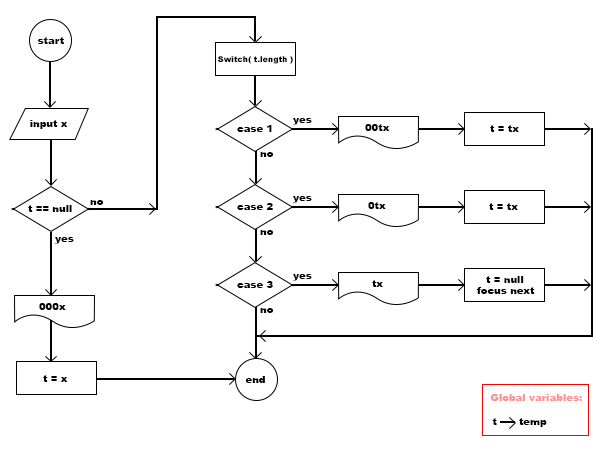
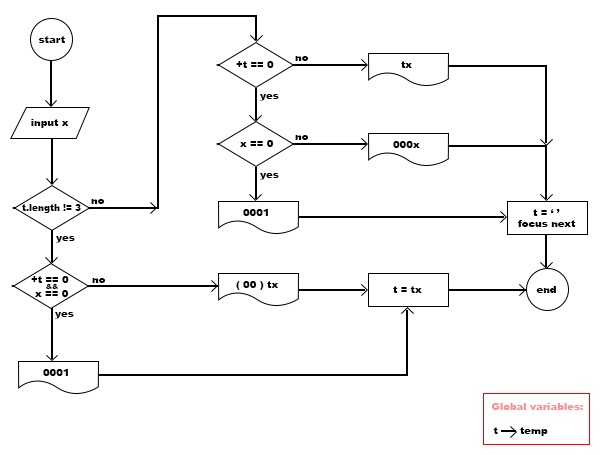
year algorithm changed

diff --git a/src/src/lib/fast-date-typing.ts b/src/src/lib/fast-date-typing.ts
@@ -5,17 +5,23 @@ import { ChangeDetectionStrategy, Component, ElementRef, EventEmitter, Input, Ng
   template: `
     <div class="datetime-edit" datetimeformat="M/d/yyyy">
       <div class="datetime-edit-fields-wrapper" (mousemove)="moveMouse()" (click)="moveMouse()">
-        <span contenteditable="true" #yearInput role="spinbutton" aria-placeholder="yyyy" aria-valuemin="1000" aria-valuemax="9999" aria-label="Year" tabindex="0" (focus)="temp = null; datetimeFocused = true;" (blur)="datetimeFocused = false;yearBlur()" (keydown)="yearSet($event)">
-          {{yearValue}}
-        </span>
-        <div>{{separator}}</div>
-        <span contenteditable="true" #monthInput role="spinbutton" aria-placeholder="mm" aria-valuemin="1" aria-valuemax="12" aria-label="Month" tabindex="0" (focus)="temp = null; datetimeFocused = true;" (blur)="datetimeFocused = false;valueChange.emit(yearValue + '-' + monthValue + '-' + dayValue)" (keydown)="monthSet($event)">
-          {{monthValue}}
-        </span>
-        <div>{{separator}}</div>
-        <span contenteditable="true" #dayInput role="spinbutton" aria-placeholder="dd" aria-valuemin="1" aria-valuemax="31" aria-label="Day" tabindex="0" (focus)="temp = null; datetimeFocused = true;" (blur)="datetimeFocused = false;valueChange.emit(yearValue + '-' + monthValue + '-' + dayValue)" (keydown)="daySet($event)">
-          {{dayValue}}
-        </span>
+        <div>
+          <span #yearInput role="spinbutton" contentEditable="true" aria-placeholder="yyyy" aria-valuemin="1000" aria-valuemax="9999" aria-label="Year" tabindex="0" (focus)="spanFocus()" (blur)="setValue()" (keydown)="yearSet($event)">
+            {{yearValue}}
+          </span>
+        </div>
+        <div class="separator">{{separator}}</div>
+        <div>
+          <span #monthInput role="spinbutton" contentEditable="true" aria-placeholder="mm" aria-valuemin="1" aria-valuemax="12" aria-label="Month" tabindex="0" (focus)="spanFocus()" (blur)="setValue()" (keydown)="monthSet($event)">
+            {{monthValue}}
+          </span>
+        </div>
+        <div class="separator">{{separator}}</div>
+        <div>
+          <span #dayInput role="spinbutton" contentEditable="true" aria-placeholder="dd" aria-valuemin="1" aria-valuemax="31" aria-label="Day" tabindex="0" (focus)="spanFocus()" (blur)="setValue()" (keydown)="daySet($event)">
+            {{dayValue}}
+          </span>
+        </div>
       </div>
     </div>
 `,
@@ -29,45 +35,40 @@ import { ChangeDetectionStrategy, Component, ElementRef, EventEmitter, Input, Ng
 })
 export class DateInput implements OnChanges {
 
-  datetimeFocused = false;
-  yearBlur() {
-    (+this.yearValue == 0) ? this.yearValue = '0001' : ''
-    this.valueChange.emit(this.yearValue + '-' + this.monthValue + '-' + this.dayValue);
-  }
+  @ViewChild('yearInput') yearInputViewChild!: ElementRef<HTMLElement>;
+  @ViewChild('monthInput') monthInputViewChild!: ElementRef<HTMLElement>;
+  @ViewChild('dayInput') dayInputViewChild!: ElementRef<HTMLElement>;
 
   @Input() separator = '/';
-
-  @ViewChild('yearInput') yearInputViewChild: ElementRef<HTMLElement>;
-  @ViewChild('monthInput') monthInputViewChild: ElementRef<HTMLElement>;
-  @ViewChild('dayInput') dayInputViewChild: ElementRef<HTMLElement>;
-
-  @Output() valueChange: EventEmitter<string> = new EventEmitter();
   @Input() value = 'yyyy-mm-dd';
+  @Output() valueChange: EventEmitter<string> = new EventEmitter();
 
   yearValue = 'yyyy';
   monthValue = 'mm';
   dayValue = 'dd';
+  datetimeFocused = false;
+  temp = '';
+
 
   ngOnChanges(changes: SimpleChanges): void {
-    this.yearValue = this.value.split('-')[0];
-    this.monthValue = this.value.split('-')[1];
-    this.dayValue = this.value.split('-')[2];
+    let val = this.value.split('-');
+    this.yearValue = val[0];
+    this.monthValue = val[1];
+    this.dayValue = val[2];
   }
 
-  // this.year = new YearControl({ value: '', disabled: false }, [Validators.pattern(/^(13|14)\d\d$/)]);
-  // this.month = new MonthControl({ value: '', disabled: false }, [Validators.pattern(/^(0[1-9]|1[0-2])$/)]);
-  // this.day = new DayControl({ value: '', disabled: false }, [Validators.pattern(/^(0[1-9]|1[0-2])$/)]);
+  setValue() {
+    this.datetimeFocused = false;
+    this.valueChange.emit(this.yearValue + '-' + this.monthValue + '-' + this.dayValue)
+  }
 
-  // selectAll(element: HTMLElement) {
-  //   let selection = window.getSelection();
-  //   let range = document.createRange();
-  //   range.selectNodeContents(element);
-  //   selection.removeAllRanges();
-  //   selection.addRange(range);
-  // }
+  spanFocus() {
+    this.temp = '';
+    this.datetimeFocused = true;
+  }
 
   moveMouse() {
-    window.getSelection().removeAllRanges();
+    window.getSelection()?.removeAllRanges();
   }
 
   focusOnYear() {
@@ -84,14 +85,12 @@ export class DateInput implements OnChanges {
 
   afterDayFocus() {
     // this.dayInputViewChild.nativeElement.blur();
-
   }
 
   beforeYearFocus() {
     // this.yearInputViewChild.nativeElement.blur();
   }
 
-  temp: string;
 
   yearSet(evt: KeyboardEvent) {
     evt.preventDefault();
@@ -99,12 +98,12 @@ export class DateInput implements OnChanges {
     let inputNumber = evt.key;
     switch (inputNumber) {
       case 'ArrowUp':
-        if (!isNaN(+this.yearValue) && +this.yearValue != 9999) {
+        if (this.yearValue != '9999') {
           this.yearValue = (+this.yearValue + 1).toString().padStart(4, '0');
         }
         break;
       case 'ArrowDown':
-        if (!isNaN(+this.yearValue) && +this.yearValue != 1) {
+        if (this.yearValue != '0001') {
           this.yearValue = (+this.yearValue - 1).toString().padStart(4, '0');
         }
         break;
@@ -118,31 +117,27 @@ export class DateInput implements OnChanges {
     if (!/^\d+$/.test(inputNumber)) {
       return;
     }
-    if (this.temp == null) {
-      this.yearValue = '000' + inputNumber;
-      this.temp = inputNumber;
-    } else {
-      switch (this.temp.length) {
-        case 1:
-          this.yearValue = '00' + this.temp + inputNumber;
-          this.temp = this.temp + inputNumber;
-          break;
-        case 2:
-          this.yearValue = '0' + this.temp + inputNumber;
-          this.temp = this.temp + inputNumber;
-          break;
-        case 3:
-          this.yearValue = this.temp + inputNumber;
-          if (this.yearValue == '0000') {
-            this.yearValue = '0001';
-          }
-
-          this.temp = null;
-          this.focusOnMonth();
-          break;
-
+    if (this.temp.length != 3) {
+      if (+this.temp == 0 && inputNumber == '0') {
+        this.yearValue = '0001';
+      } else {
+        this.yearValue = (this.temp + inputNumber).toString().padStart(4, '0');
       }
+      this.temp = this.temp + inputNumber;
+    } else {
+      if (+this.temp == 0) {
+        if (inputNumber == '0') {
+          this.yearValue = '0001';
+        } else {
+          this.yearValue = '000' + inputNumber;
+        }
+      } else {
+        this.yearValue = this.temp + inputNumber;
+      }
+      this.temp = '';
+      this.focusOnMonth();
     }
+
   }
 
   monthSet(evt: KeyboardEvent) {
@@ -151,12 +146,12 @@ export class DateInput implements OnChanges {
     let inputNumber = evt.key;
     switch (inputNumber) {
       case 'ArrowUp':
-        if (!isNaN(+this.monthValue) && +this.monthValue != 12) {
+        if (this.monthValue != '12') {
           this.monthValue = (+this.monthValue + 1).toString().padStart(2, '0');
         }
         break;
       case 'ArrowDown':
-        if (!isNaN(+this.monthValue) && +this.monthValue != 1) {
+        if (this.monthValue != '01') {
           this.monthValue = (+this.monthValue - 1).toString().padStart(2, '0');
         }
         break;
@@ -170,7 +165,7 @@ export class DateInput implements OnChanges {
     if (!/^\d+$/.test(inputNumber)) {
       return;
     }
-    if (this.temp == null) {
+    if (this.temp == '') {
       this.monthValue = '0' + ((inputNumber == '0') ? '1' : inputNumber);
       (+inputNumber < 2) ? this.temp = inputNumber : this.focusOnDay();
     } else {
@@ -181,7 +176,7 @@ export class DateInput implements OnChanges {
       } else {
         this.monthValue = this.temp + inputNumber;
       }
-      this.temp = null;
+      this.temp = '';
       this.focusOnDay();
     }
   }
@@ -192,12 +187,12 @@ export class DateInput implements OnChanges {
     let inputNumber = evt.key;
     switch (inputNumber) {
       case 'ArrowUp':
-        if (!isNaN(+this.dayValue) && +this.dayValue != 31) {
+        if (this.dayValue != '31') {
           this.dayValue = (+this.dayValue + 1).toString().padStart(2, '0');
         }
         break;
       case 'ArrowDown':
-        if (!isNaN(+this.dayValue) && +this.dayValue != 1) {
+        if (this.dayValue != '01') {
           this.dayValue = (+this.dayValue - 1).toString().padStart(2, '0');
         }
         break;
@@ -212,7 +207,7 @@ export class DateInput implements OnChanges {
     if (!/^\d+$/.test(inputNumber)) {
       return;
     }
-    if (this.temp == null) {
+    if (this.temp == '') {
       this.dayValue = '0' + ((inputNumber == '0') ? '1' : inputNumber);
       (+inputNumber < 4) ? this.temp = inputNumber : this.afterDayFocus();
     } else {
@@ -225,11 +220,20 @@ export class DateInput implements OnChanges {
       } else {
         this.dayValue = (this.temp + inputNumber == '00') ? '01' : this.temp + inputNumber;
       }
-      this.temp = null;
+      this.temp = '';
       this.afterDayFocus();
     }
   }
-
+  // this.year = new YearControl({ value: '', disabled: false }, [Validators.pattern(/^(13|14)\d\d$/)]);
+  // this.month = new MonthControl({ value: '', disabled: false }, [Validators.pattern(/^(0[1-9]|1[0-2])$/)]);
+  // this.day = new DayControl({ value: '', disabled: false }, [Validators.pattern(/^(0[1-9]|1[0-2])$/)]);
+  // selectAll(element: HTMLElement) {
+  //   let selection = window.getSelection();
+  //   let range = document.createRange();
+  //   range.selectNodeContents(element);
+  //   selection.removeAllRanges();
+  //   selection.addRange(range);
+  // }
 }
 
 @NgModule({

diff --git a/src/src/lib/fast-date-typing.scss b/src/src/lib/fast-date-typing.scss
@@ -32,8 +32,12 @@ fast-date-typing {
         user-select: none;
     }
 
-    div {
+    .separator {
         margin: 0 3px;
+    }
+
+    div {
+        display: inline-block;
     }
 
     span {

diff --git a/README.md b/README.md
@@ -11,7 +11,7 @@ import { FastDateTyping } from 'fast-date-typing';
 ## How to use
 
 ```
-<fast-date-typing [(value)]="'2023/01/01'" [separator]="'/'"></fast-date-typing>
+<fast-date-typing [(value)]="'2023-01-01'" [separator]="'/'"></fast-date-typing>
 ```
 
 ## How it works

diff --git a/src/README.md b/src/README.md
@@ -11,7 +11,7 @@ import { FastDateTyping } from 'fast-date-typing';
 ## How to use
 
 ```
-<fast-date-typing [(value)]="'2023/01/01'" [separator]="'/'"></fast-date-typing>
+<fast-date-typing [(value)]="'2023-01-01'" [separator]="'/'"></fast-date-typing>
 ```
 
 ## How it works
